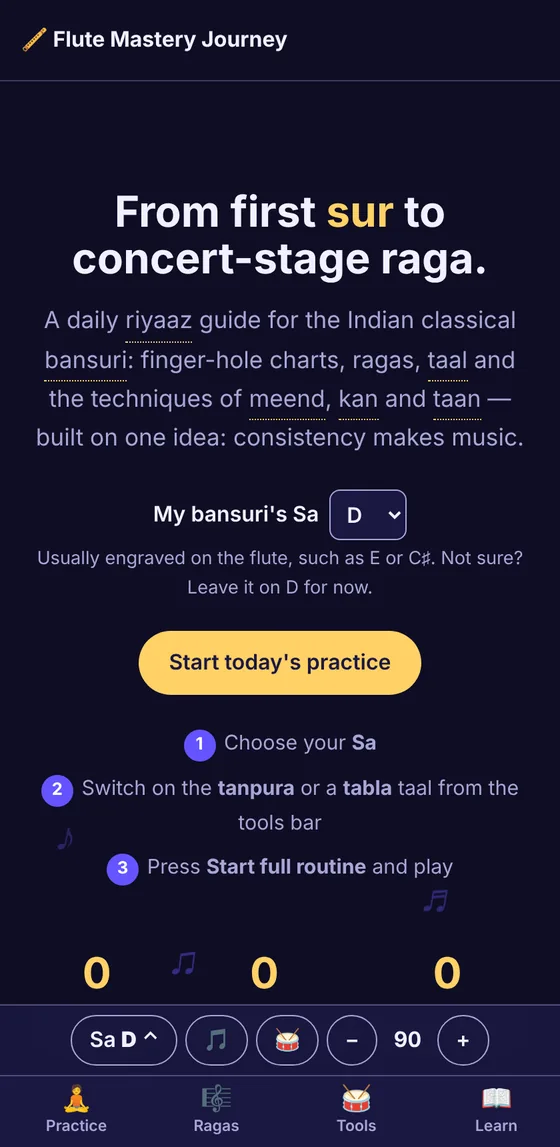
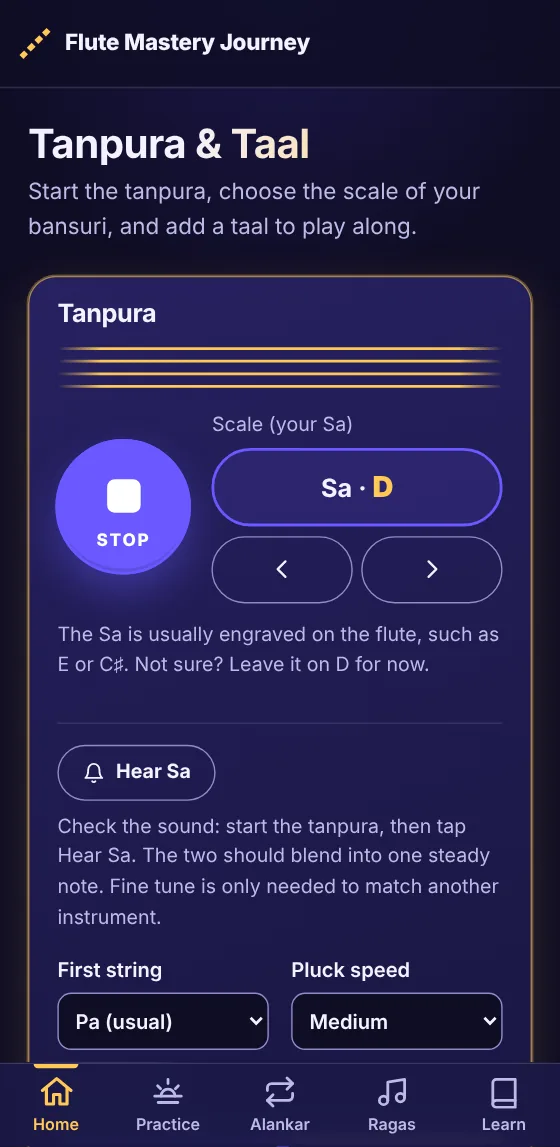
Update the Flute Mastery Journey card for the new app UI (#21)
The flute app now opens on a Tanpura and Taal player, with swipeable
practice cards and an Alankar tab. Replace the light and dark phone
screenshots (same 560x1147 size) and update the alt text and the
description on the portfolio page, the interactive page card and the
profile README.

Claude-Session: https://claude.ai/code/session_01PtMyvVXaMiyAPuGarGgAUj

diff --git a/docs/index.html b/docs/index.html
@@ -123,11 +123,11 @@
     </article>
 
     <article class="work">
-      <figure class="shot phone"><img class="lt" src="img/flute-light.webp" width="560" height="1147" loading="lazy" alt="Flute Mastery Journey on a phone: From first sur to concert-stage raga, with the practice toolbar"><img class="dk" src="img/flute-dark.webp" width="560" height="1147" loading="lazy" alt="Flute Mastery Journey on a phone: From first sur to concert-stage raga, with the practice toolbar"></figure>
+      <figure class="shot phone"><img class="lt" src="img/flute-light.webp" width="560" height="1147" loading="lazy" alt="Flute Mastery Journey on a phone: the Tanpura and Taal player, with a large Stop button, the scale selector and the bottom tab bar"><img class="dk" src="img/flute-dark.webp" width="560" height="1147" loading="lazy" alt="Flute Mastery Journey on a phone: the Tanpura and Taal player, with a large Stop button, the scale selector and the bottom tab bar"></figure>
       <div>
         <p class="kind">Personal · live app</p>
         <h3>Flute Mastery Journey</h3>
-        <p>A practice companion for the Indian classical bansuri, built for my own riyaaz: timed routines, a microphone pitch tuner, synthesised tanpura and tabla, and animated demos for 16 ragas. Installable and fully offline.</p>
+        <p>A practice companion for the Indian classical bansuri, built for my own riyaaz. It opens on a tanpura and tabla player with a big scale button; swipe through timed practice cards, drill alankar patterns in time with the taal, check your pitch with the microphone tuner, and watch animated demos for 16 ragas. Installable and fully offline.</p>
         <p class="stack">JavaScript, Web Audio, pitch detection (YIN), PWA</p>
         <a class="go" href="https://xudipta.github.io/Flute-Mastery-Journey/" rel="noopener">Open the app →</a>
       </div>

diff --git a/docs/play/main.js b/docs/play/main.js
@@ -73,7 +73,7 @@
       desc: "Shared-session trip planner for Northeast India. Friends plan together in one live chat with Mynna, an AI bot grounded in a curated knowledge base, which builds a shared, live itinerary.",
       tags: ["Python", "FastAPI", "WebSockets", "PostgreSQL", "pgvector", "RAG", "LLM", "Docker"] },
     { name: "Flute Mastery Journey", repo: `${GITHUB_USER}/Flute-Mastery-Journey`, url: "https://xudipta.github.io/Flute-Mastery-Journey/", linkLabel: "live ↗", icon: "🎶", ic: "music",
-      desc: "An interactive guide to the Indian classical bansuri, from first sur to concert-stage raga: a timed daily riyaaz routine, a microphone pitch tuner, synthesised tanpura and tabla, a tap-to-hear finger chart and animated demos for 16 ragas. Installable and works offline.",
+      desc: "An interactive guide to the Indian classical bansuri, from first sur to concert-stage raga: a tanpura and tabla player, swipeable timed practice cards, alankar drills played in time with the taal, a microphone pitch tuner, a tap-to-hear finger chart and animated demos for 16 ragas. Installable and works offline.",
       tags: ["JavaScript", "Web Audio", "Pitch detection", "PWA", "Offline-first", "Canvas"] },
     { name: "Second Brain", repo: `${GITHUB_USER}/second-brain-app`, url: "https://xudipta.github.io/second-brain-app/", linkLabel: "live ↗", icon: "🧠", ic: "notebook",
       desc: "A private capture app for my personal knowledge notebook. It interviews you one question at a time using proven frameworks such as Getting Things Done, never rewrites your words, encrypts everything in the browser and exports clean Markdown.",

diff --git a/README.md b/README.md
@@ -14,7 +14,7 @@
 
 ### 📌 Side projects
 - [**Mynna**](https://trip.mynna.chat): AI trip planner for Northeast India, with shared live sessions and RAG
-- [**Flute Mastery Journey**](https://xudipta.github.io/Flute-Mastery-Journey/): an offline-first bansuri practice app with a pitch tuner and raga demos
+- [**Flute Mastery Journey**](https://xudipta.github.io/Flute-Mastery-Journey/): an offline-first bansuri practice app with a tanpura and taal player, swipeable practice cards, alankar drills, a pitch tuner and raga demos
 - [**Second Brain**](https://xudipta.github.io/second-brain-app/): an encrypted, interview-style knowledge capture app
 - [**cookbook**](https://xudipta.github.io/cookbook/): infrastructure and AI tooling taught as phone-friendly stories, then notes and practice games; ten topics, every example tested in CI
 
